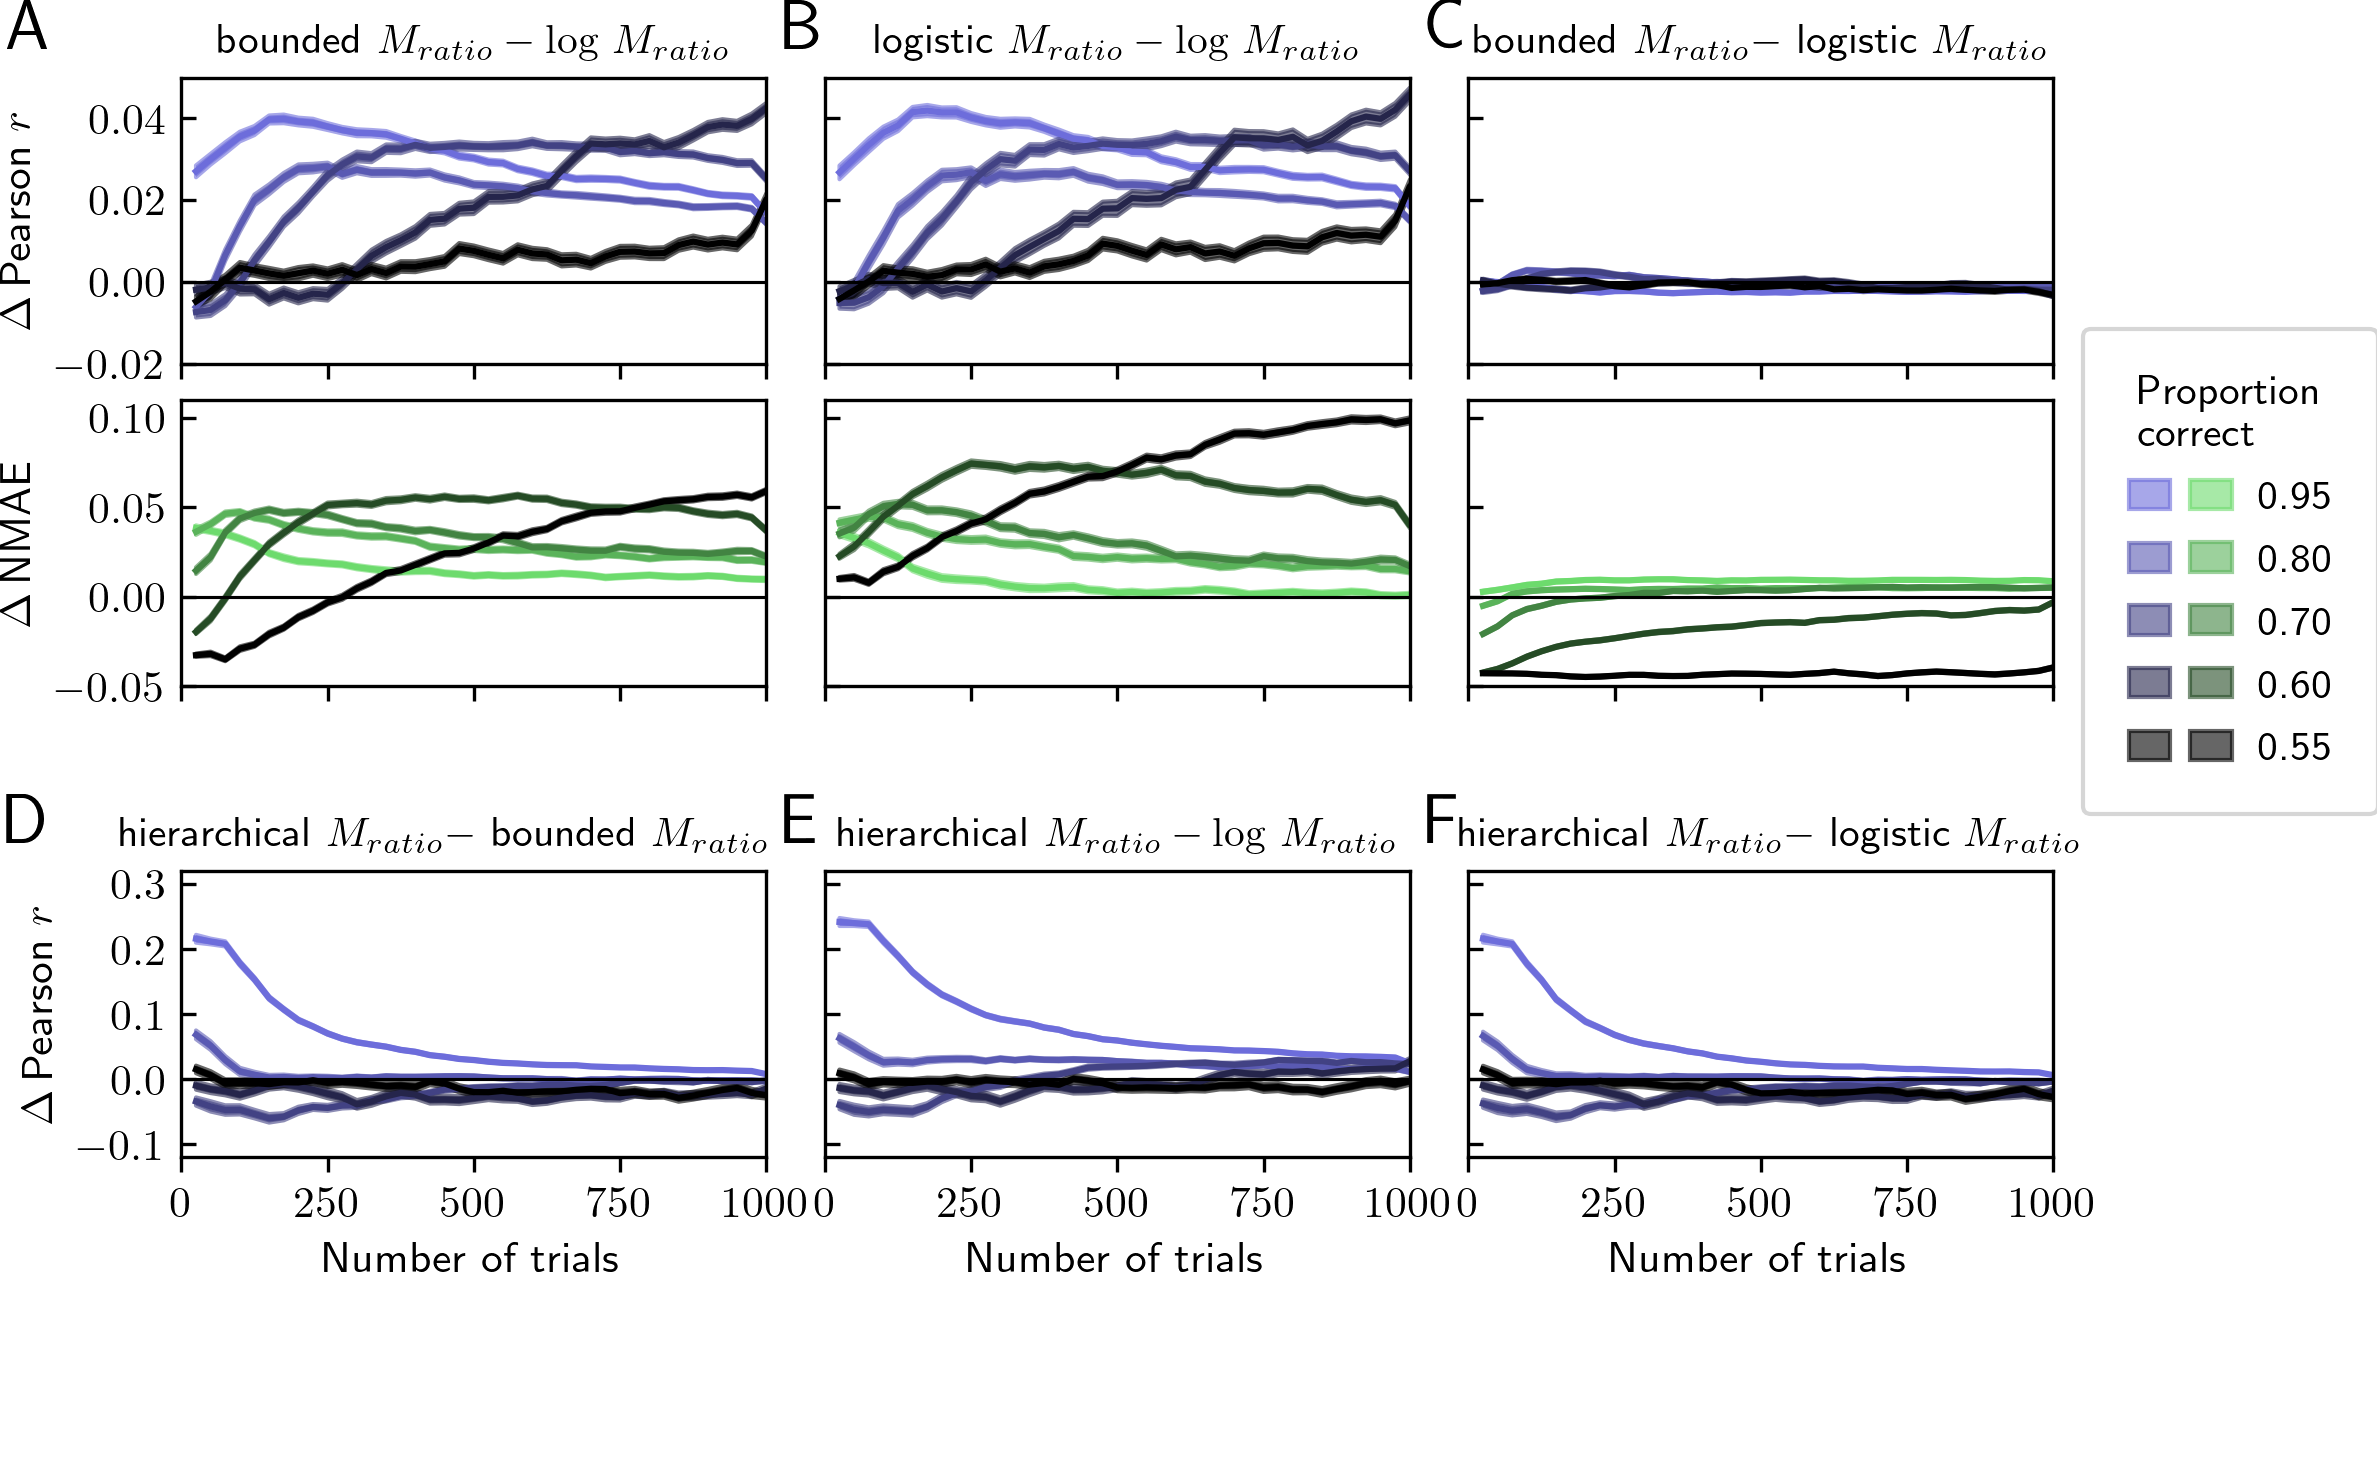
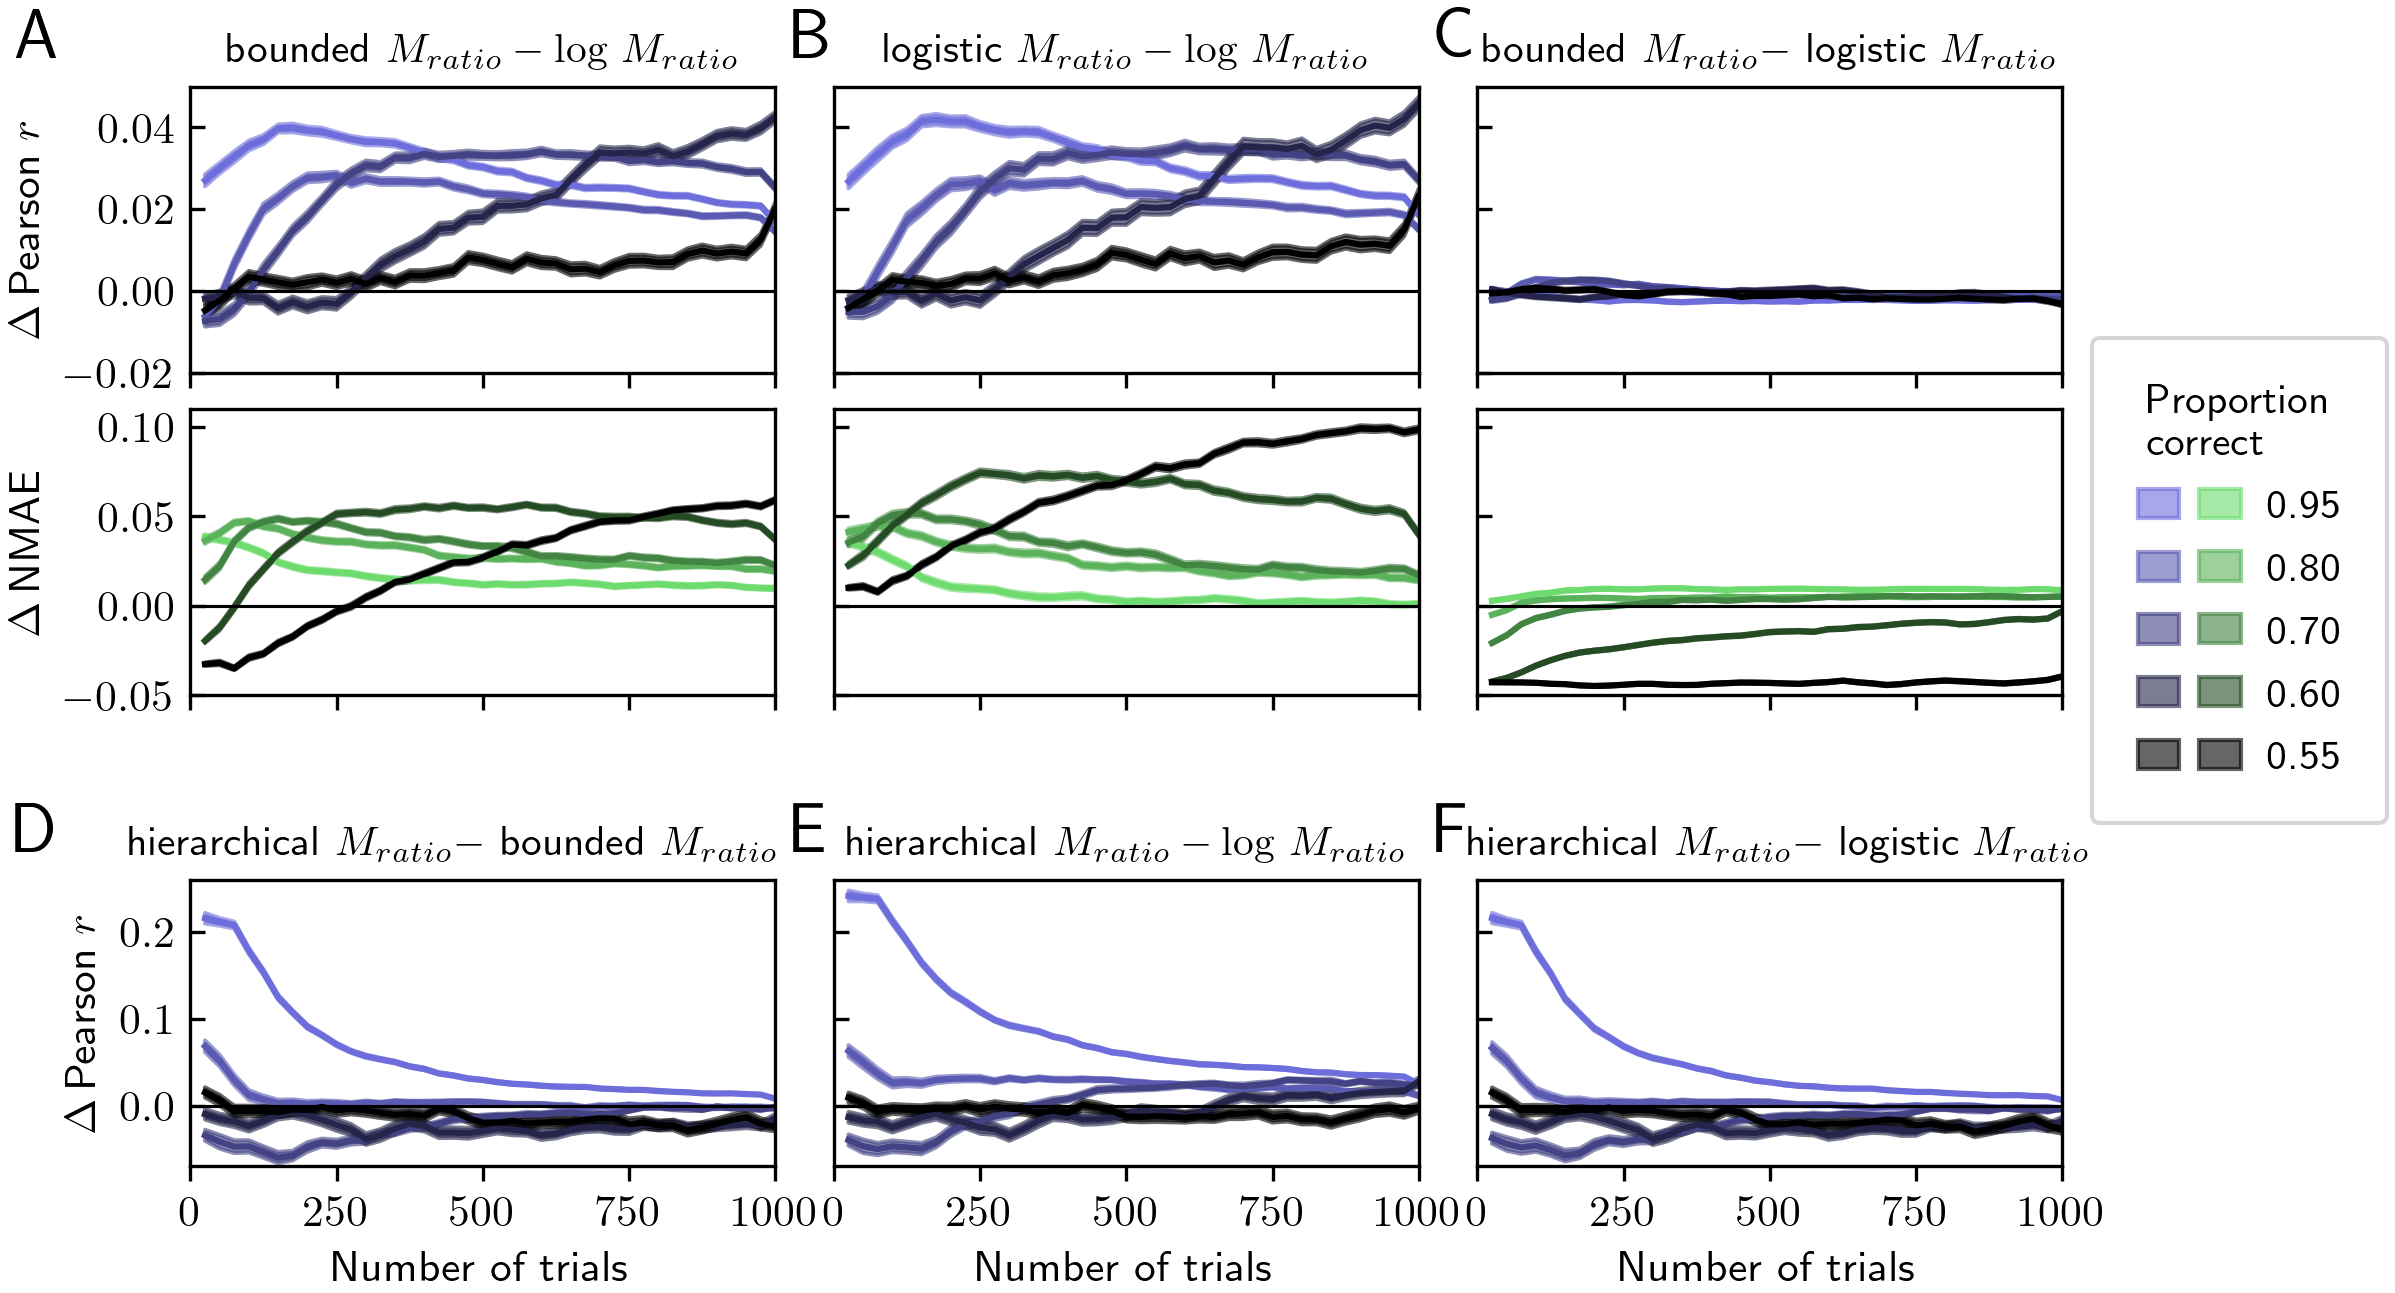
Update file headers

Changed region(s): [[0.0, 0.0, 1.0, 0.9899], [0.0, 0.0, 0.0311, 0.0619]]

diff --git a/plot/plot_simu_rel_diff_suppl.py b/plot/plot_simu_rel_diff_suppl.py
@@ -118,7 +118,7 @@ for i, m in enumerate(('mratio_bounded_minus_logmratio', 'mratio_logistic_minus_
                     plt.yticks([-0.1, 0, 0.1, 0.2, 0.3])
                 else:
                     plt.yticks([-0.1, 0, 0.1, 0.2, 0.3], [])
-                plt.ylim((-0.12, 0.32))
+                plt.ylim((-0.07, 0.26))
         else:
             if i < 3:
                 if i == 0:
@@ -145,5 +145,5 @@ for i in (6, 8, 10):
 
 rcParams['text.usetex'] = False
 
-savefig(f'../img/{Path(__file__).stem}.png')
+savefig(f'../img/{Path(__file__).stem}.png', pad_inches=0.03)
 plt.show()

diff --git a/simu/simu_rel_mca.py b/simu/simu_rel_mca.py
@@ -1,11 +1,10 @@
 #!/usr/bin/env python
 # -*- coding: utf-8 -*-
-# Author: Matthias Guggenmos <guggenmos.web@gmail.com>
-# 2020
+# Author: Matthias Guggenmos <mg.corresponding@gmail.com>
+# 2021
 
 ### Description
-# Simulation to assess the test-retest reliability of metacognitive performance measures under well-controlled settings.
-# All metacognitive performance measures except Mratio based on hmeta-d'
+# Simulation: test-retest reliability of metacognitive performance measures (except Mratio based on hmeta-d')
 
 import os
 import sys

diff --git a/simu/simu_rel_mca_hmeta.py b/simu/simu_rel_mca_hmeta.py
@@ -1,11 +1,10 @@
 #!/usr/bin/env python
 # -*- coding: utf-8 -*-
-# Author: Matthias Guggenmos <guggenmos.web@gmail.com>
-# 2020
+# Author: Matthias Guggenmos <mg.corresponding@gmail.com>
+# 2021
 
 ### Description
-# Simulation to assess the test-retest reliability of metacognitive performance measures under well-controlled settings.
-# Separate script specifically for Mratio based on hmeta-d'
+# Simulation: test-retest reliability of Mratio based on hmeta-d'
 
 import os
 import sys

diff --git a/simu/simu_perf_mca.py b/simu/simu_perf_mca.py
@@ -1,3 +1,11 @@
+#!/usr/bin/env python
+# -*- coding: utf-8 -*-
+# Author: Matthias Guggenmos <mg.corresponding@gmail.com>
+# 2021
+
+### Description
+# Simulation: type 1 performance dependency of metacognitive performance measures (except Mratio based on hmeta-d')
+
 import os
 import sys
 from pathlib import Path

diff --git a/simu/simu_perf_mca_andi.py b/simu/simu_perf_mca_andi.py
@@ -1,3 +1,11 @@
+#!/usr/bin/env python
+# -*- coding: utf-8 -*-
+# Author: Matthias Guggenmos <mg.corresponding@gmail.com>
+# 2021
+
+### Description
+# Simulation: type 1 performance dependency of ANDI
+
 import os
 import sys
 from multiprocessing_on_dill.pool import Pool

diff --git a/simu/simu_perf_mca_hmeta.py b/simu/simu_perf_mca_hmeta.py
@@ -1,3 +1,11 @@
+#!/usr/bin/env python
+# -*- coding: utf-8 -*-
+# Author: Matthias Guggenmos <mg.corresponding@gmail.com>
+# 2021
+
+### Description
+# Simulation: type 1 performance dependency of Mratio based on hmeta-d'
+
 import os
 import sys
 from pathlib import Path

diff --git a/simu/simu_confidence.py b/simu/simu_confidence.py
@@ -1,3 +1,11 @@
+#!/usr/bin/env python
+# -*- coding: utf-8 -*-
+# Author: Matthias Guggenmos <mg.corresponding@gmail.com>
+# 2021
+
+### Description
+# Simulation: generative model
+
 from pathlib import Path
 from scipy.stats import beta, lognorm, norm
 

diff --git a/plot/plot_util.py b/plot/plot_util.py
@@ -1,3 +1,11 @@
+#!/usr/bin/env python
+# -*- coding: utf-8 -*-
+# Author: Matthias Guggenmos <mg.corresponding@gmail.com>
+# 2021
+
+### Description
+# Plot utils
+
 import numpy as np
 import matplotlib.pyplot as plt
 import matplotlib as mpl

diff --git a/plot/plot_simu_rel_suppl.py b/plot/plot_simu_rel_suppl.py
@@ -1,3 +1,11 @@
+#!/usr/bin/env python
+# -*- coding: utf-8 -*-
+# Author: Matthias Guggenmos <mg.corresponding@gmail.com>
+# 2021
+
+### Description
+# Plot utils
+
 import os
 
 import matplotlib.pyplot as plt
